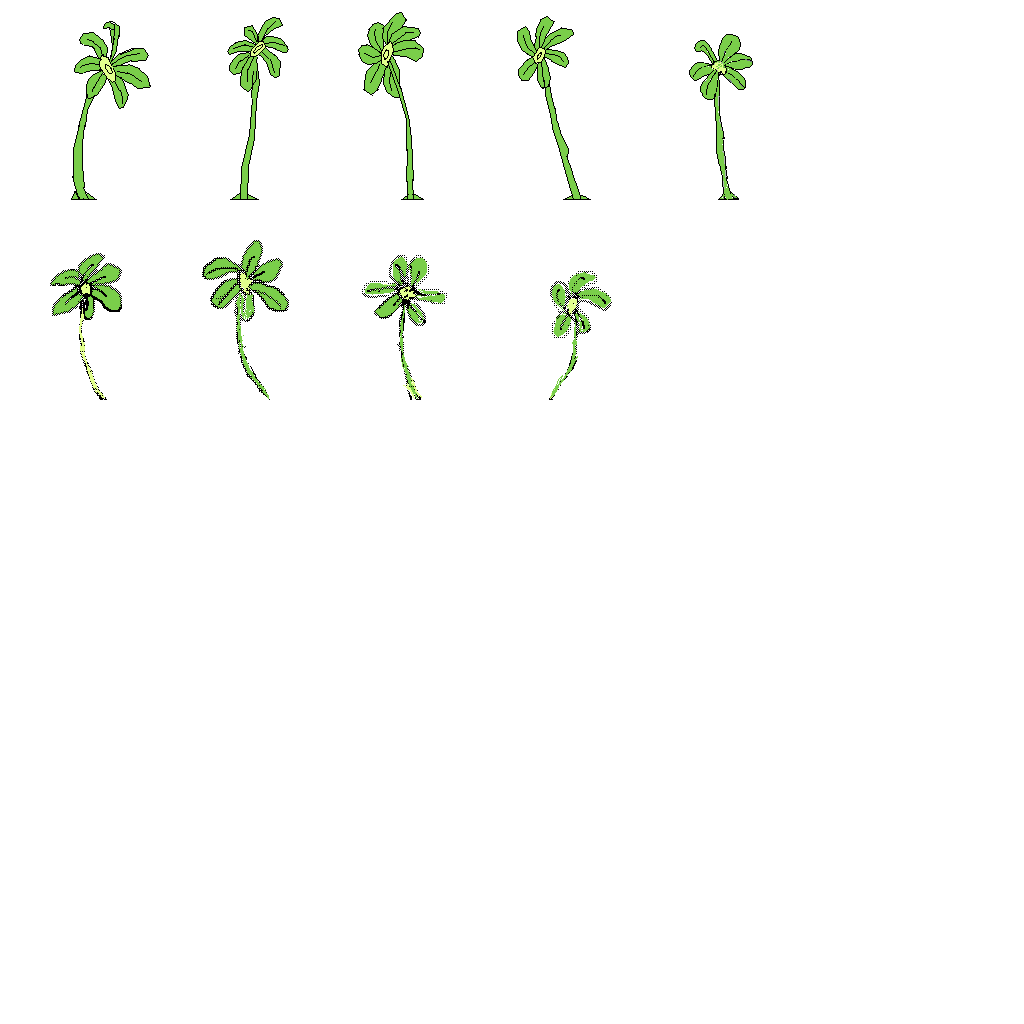
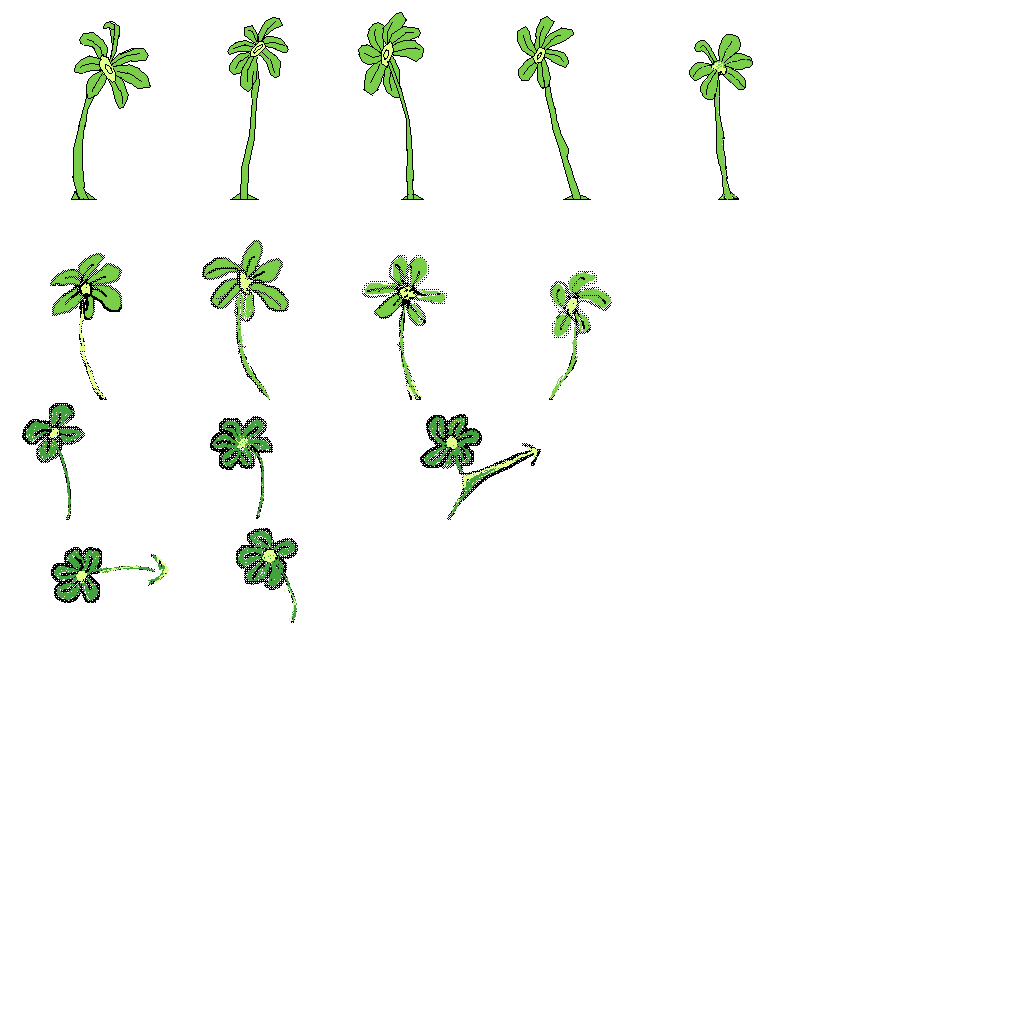
animstate

diff --git a/src/play.ts b/src/play.ts
@@ -5,7 +5,7 @@ import { generate, psfx } from './audio'
 
 import { appr, lerp, lerp_dt } from './lerp'
 import { make_rigid, rigid_update } from './rigid'
-import { __f_back_walk, __f_walk, __f_idle, __f_turn } from './animstate'
+import { __f_attack, __f_back_dash, __f_dash, __f_back_walk, __f_walk, __f_idle, __f_turn } from './animstate'
 import { AnimState2 } from './animstate'
 
 console.log(__f_walk)
@@ -374,9 +374,9 @@ class PlayerFloor extends WithPlays {
 
     this._floor_x = make_rigid(x, {
       mass: 100,
-      air_friction: 0.8,
+      air_friction: 0.6,
       max_speed: 28,
-      max_force: 2
+      max_force: 4
     })
 
     this.z = this.data.z
@@ -386,7 +386,33 @@ class PlayerFloor extends WithPlays {
     this._a = new AnimState2(__f_idle)
   }
 
+  _attack() {
+    this._a = new AnimState2(__f_attack)
+  }
+
   _horizontal(on, off) {
+
+    if (off !== 0) {
+      this._t_off = this.life * off
+    }
+    if (on !== 0) {
+      let { _t_off } = this
+      this._t_off = undefined
+      if (!!_t_off && on === Math.sign(_t_off)) {
+        let d = this.life - Math.abs(_t_off)
+
+        if (d < ticks.sixth) {
+          if (Math.sign(_t_off) === this._facing) {
+            this._a = new AnimState2(__f_dash)
+          } else {
+            this._a = new AnimState2(__f_back_dash)
+          }
+          return
+        }
+
+      }
+    }
+
     if(this._a._f === __f_back_walk) {
       if (off === this._facing * -1) {
         this._a = new AnimState2(__f_idle)
@@ -419,8 +445,7 @@ class PlayerFloor extends WithPlays {
   _update(dt: number, dt0: number) {
 
 
-    this._floor_x.force = 
-      appr(this._floor_x.force, 0, (dt / (ticks.five * 2)) * this._floor_x.opts.max_force)
+    this._floor_x.force = 0
 
     if (this.data.tag === 'user') {
       user_update(this)
@@ -431,16 +456,46 @@ class PlayerFloor extends WithPlays {
 
     let { res, res0 } = this._a
 
+    if (this._a._f === __f_attack) {
+      if (res && res0) {
+        let { i } = this._a
+        if (res[0].match('att2')) {
+          this._floor_x.force = this._floor_x.opts.max_force * this._facing * 5 * (0.8 - i) * (0.8 - i)
+        }
+      }
+      if (!res) {
+        this._a = new AnimState2(__f_idle)
+      }
+    }
+    if (this._a._f === __f_dash) {
+      if (res && res0) {
+        let { i } = this._a
+        this._floor_x.force = this._floor_x.opts.max_force * this._facing * 2 * (1 - i * i * i)
+      }
+
+      if (!res) {
+        this._a = new AnimState2(__f_idle)
+      }
+    } else if (this._a._f === __f_back_dash) {
+      if (res && res0) {
+        let { i } = this._a
+        this._floor_x.force = this._floor_x.opts.max_force * -1 * this._facing * 1.4 * (1 - i * i)
+      }
+
+      if (!res) {
+        this._a = new AnimState2(__f_idle)
+      }
+    }
     if (this._a._f === __f_back_walk) {
       if (res && res0) {
         let { i } = this._a
-        this._floor_x.force = this._floor_x.opts.max_force * -1 * this._facing * 0.4 * (1 - i)
+        this._floor_x.force = this._floor_x.opts.max_force * -1 * this._facing * 0.6 * (1 - i)
       }
     }
     if (this._a._f === __f_walk) {
       if (res && res0) {
         let { i } = this._a
-        this._floor_x.force = this._floor_x.opts.max_force * this._facing * 0.8 * (1 - i)
+        this._floor_x.force = this._floor_x.opts.max_force * this._facing * (1 - i)
       }
     }
 
@@ -542,12 +597,14 @@ const user_update = (_p: PlayerFloor) => {
   let _left_off = _p.i.just_offs.find(_ => _ === 'ArrowLeft'),
     _right_off = _p.i.just_offs.find(_ => _ === 'ArrowRight')
 
+  let _f_on = _p.i.just_ons.find(_ => _ === 'f')
 
   let h_on = _left_on ? -1 : _right_on ? 1 : 0
   let h_off = _left_off ? -1 : _right_off ? 1 : 0
 
 
   _p._horizontal(h_on, h_off)
+  if (_f_on) { _p._attack() }
 }
 
 export default class AllPlays extends PlayMakes {

diff --git a/src/animstate.ts b/src/animstate.ts
@@ -36,7 +36,11 @@ let _ff = [
   `i@0,0,160,200 5`,
   `w@0,200,160,200 4`,
   `bw@0,200,160,200 4`,
-  `tt@0,200,160,200 1`
+  `tt@0,200,160,200 1`,
+  `d@0,200,160,200 2`,
+  `bd@0,200,160,200 2`,
+  `att@0,400,192,120 3`,
+  `att2@0,520,192,120 2`,
 ]
 
 
@@ -46,6 +50,9 @@ export let __f_walk = `w@0.2 _l`
 export let __f_back_walk = `bw@0.2 _l`
 export let __f_idle = `i@0.2 _l`
 export let __f_turn = `tt@0.1 _`
+export let __f_dash = `d@0.2 _`
+export let __f_back_dash = `bd@0.2 _`
+export let __f_attack = `att@0.05 att2@0.16 _`
 
 
 
